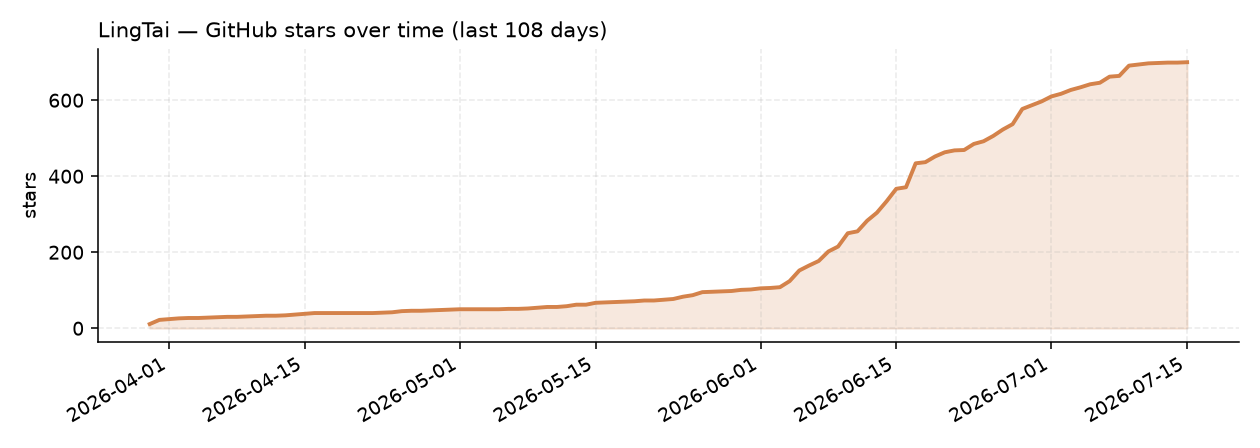
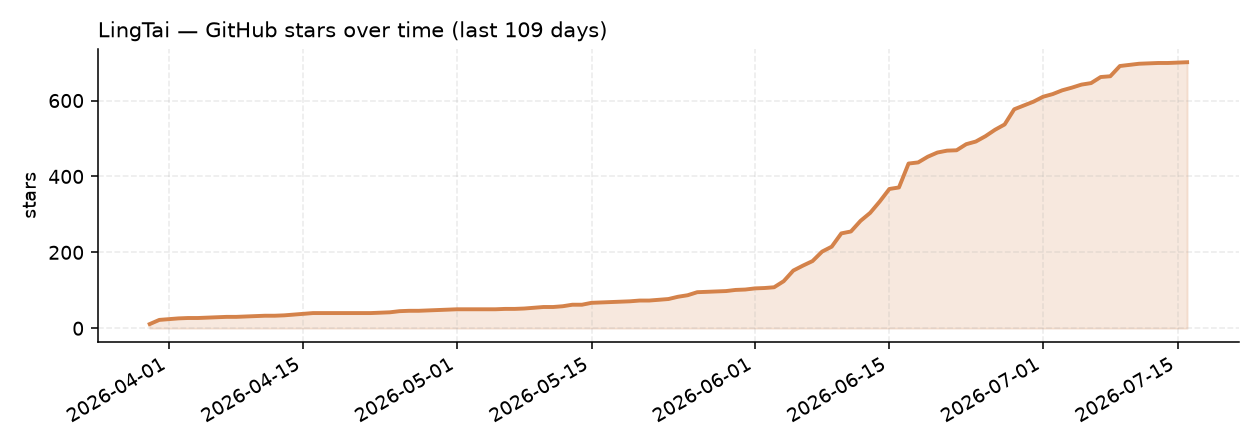
chore(stars): update daily star count

diff --git a/docs/stars/README.md b/docs/stars/README.md
@@ -1,7 +1,7 @@
 # LingTai star trend
 
-- Latest: **700** stars (2026-07-15)
-- Last 7 days: **+36**
-- Since tracking began (2026-03-30): **+689**
-- Sparkline (last 60 days): `▁▁▁▁▁▁▁▁▁▁▁▁▁▁▁▁▁▁▁▁▂▂▂▂▃▃▃▃▃▄▄▅▅▅▅▅▅▅▅▅▆▆▆▆▆▇▇▇▇▇▇▇▇▇▇▇▇▇▇█`
+- Latest: **701** stars (2026-07-16)
+- Last 7 days: **+10**
+- Since tracking began (2026-03-30): **+690**
+- Sparkline (last 60 days): `▁▁▁▁▁▁▁▁▁▁▁▁▁▁▁▁▁▁▁▂▂▂▂▂▃▃▃▃▄▄▅▅▅▅▅▅▅▅▅▆▆▆▆▆▆▇▇▇▇▇▇▇▇▇▇▇▇▇▇█`
 - Chart: `trend.png`
